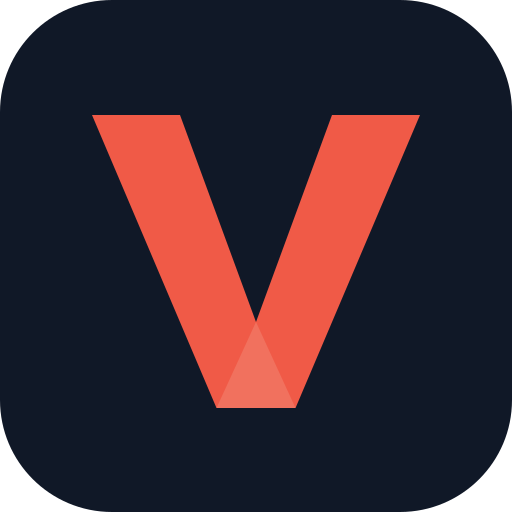
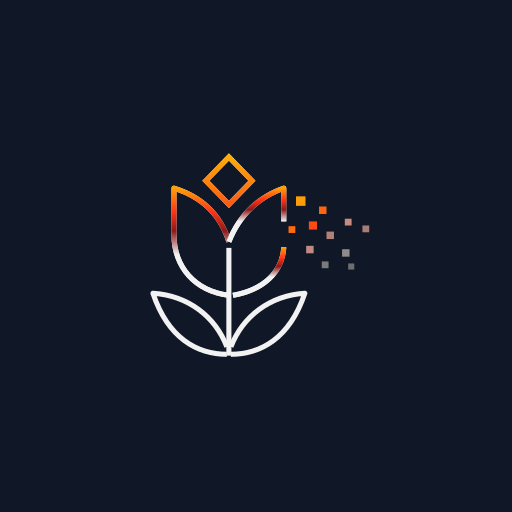
brand: ship Bloem artwork and default the server name to Bloem
Replaces the inherited Vondel placeholder artwork with Bloem's own, and
fixes the last Go-side string the rebrand missed.

DefaultServerName was still "Silo", so any deployment without a
branding.server_name row rendered "Silo" in the page title and the PWA
manifest at request time — overriding the correctly-branded bundle.
Configured instances were unaffected, which is why it survived the
earlier sweep.

Artwork is generated from the tulip logo's vector source, so the app
icons render crisply at every size rather than being downsampled from a
raster lockup. Icons keep the established design language: an opaque
#101827 rounded plate so they read on any tab strip, wallpaper, or
launcher background, rather than transparent art that disappears
against one theme or the other.

These are PLACEHOLDERS pending final assets. Known gap: the wordmark's
lettering is cropped from a raster lockup and its wide tracking is
cramped in the sidebar's 112x48 slot; a vector wordmark should replace
it, along with a simplified small-size mark for 16-32px favicons.

Related issue: N/A — brand assets

diff --git a/web/src/components/AppSidebar.test.tsx b/web/src/components/AppSidebar.test.tsx
@@ -205,7 +205,7 @@ describe("AppSidebar", () => {
   it("renders the Silo brand mark instead of the old play glyph", () => {
     const markup = renderSidebar("/");
 
-    expect(markup).toContain('src="/vondel-wordmark-sidebar.png"');
+    expect(markup).toContain('src="/bloem-wordmark-sidebar.png"');
     expect(markup).toContain('alt="Silo"');
     expect(markup).not.toContain("▶");
   });
@@ -217,24 +217,24 @@ describe("AppSidebar", () => {
     const expanded = renderSidebar("/");
 
     for (const markup of [collapsed, expanded]) {
-      expect(markup).toContain('src="/vondel-icon-1024.png"');
-      expect(markup).toContain('src="/vondel-wordmark-sidebar.png"');
+      expect(markup).toContain('src="/bloem-icon-1024.png"');
+      expect(markup).toContain('src="/bloem-wordmark-sidebar.png"');
     }
     // Collapsed: the mark is the one showing, and the wordmark is out of the
     // accessibility tree so the two images never both name the sidebar.
     const collapsedDocument = parseMarkup(collapsed);
     const expandedDocument = parseMarkup(expanded);
     const collapsedWordmark = collapsedDocument
-      .querySelector('img[src="/vondel-wordmark-sidebar.png"]')
+      .querySelector('img[src="/bloem-wordmark-sidebar.png"]')
       ?.closest(".sidebar-fade");
     const collapsedMark = collapsedDocument
-      .querySelector('img[src="/vondel-icon-1024.png"]')
+      .querySelector('img[src="/bloem-icon-1024.png"]')
       ?.closest(".sidebar-fade");
     const expandedWordmark = expandedDocument
-      .querySelector('img[src="/vondel-wordmark-sidebar.png"]')
+      .querySelector('img[src="/bloem-wordmark-sidebar.png"]')
       ?.closest(".sidebar-fade");
     const expandedMark = expandedDocument
-      .querySelector('img[src="/vondel-icon-1024.png"]')
+      .querySelector('img[src="/bloem-icon-1024.png"]')
       ?.closest(".sidebar-fade");
 
     expect(collapsedWordmark?.getAttribute("aria-hidden")).toBe("true");

diff --git a/web/src/lib/product-brand.test.ts b/web/src/lib/product-brand.test.ts
@@ -74,7 +74,7 @@ describe("applyBrand", () => {
     for (const restricted of ["silo-icon-1024.png", "silo-wordmark-sidebar.png"]) {
       expect(existsSync(publicPath(restricted))).toBe(false);
     }
-    for (const owned of ["vondel-icon-1024.png", "vondel-wordmark-sidebar.png"]) {
+    for (const owned of ["bloem-icon-1024.png", "bloem-wordmark-sidebar.png"]) {
       expect(existsSync(publicPath(owned))).toBe(true);
     }
 
@@ -82,8 +82,8 @@ describe("applyBrand", () => {
       resolve(process.cwd(), "src/components/SiloBrand.tsx"),
       "utf8",
     );
-    expect(brandComponent).toContain('"/vondel-wordmark-sidebar.png"');
-    expect(brandComponent).toContain('"/vondel-icon-1024.png"');
+    expect(brandComponent).toContain('"/bloem-wordmark-sidebar.png"');
+    expect(brandComponent).toContain('"/bloem-icon-1024.png"');
     expect(brandComponent).not.toContain('"/silo-wordmark-sidebar.png"');
     expect(brandComponent).not.toContain('"/silo-icon-1024.png"');
   });

diff --git a/web/src/components/SiloBrand.tsx b/web/src/components/SiloBrand.tsx
@@ -1,8 +1,8 @@
 import { cn } from "@/lib/utils";
 import { useBranding } from "@/hooks/useBranding";
 
-const SILO_WORDMARK_SRC = "/vondel-wordmark-sidebar.png";
-const SILO_MARK_SRC = "/vondel-icon-1024.png";
+const SILO_WORDMARK_SRC = "/bloem-wordmark-sidebar.png";
+const SILO_MARK_SRC = "/bloem-icon-1024.png";
 
 export type SiloBrandVariant = "wordmark" | "mark";
 

diff --git a/internal/branding/branding.go b/internal/branding/branding.go
@@ -39,7 +39,7 @@ const (
 // mirror the frontend's hardcoded fallbacks so behavior is unchanged out of the
 // box.
 const (
-	DefaultServerName    = "Silo"
+	DefaultServerName    = "Bloem"
 	DefaultLoginSubtitle = "Sign in with an existing account."
 	// DefaultThemeColor is used for the PWA manifest theme/background color when
 	// no accent color is configured.
